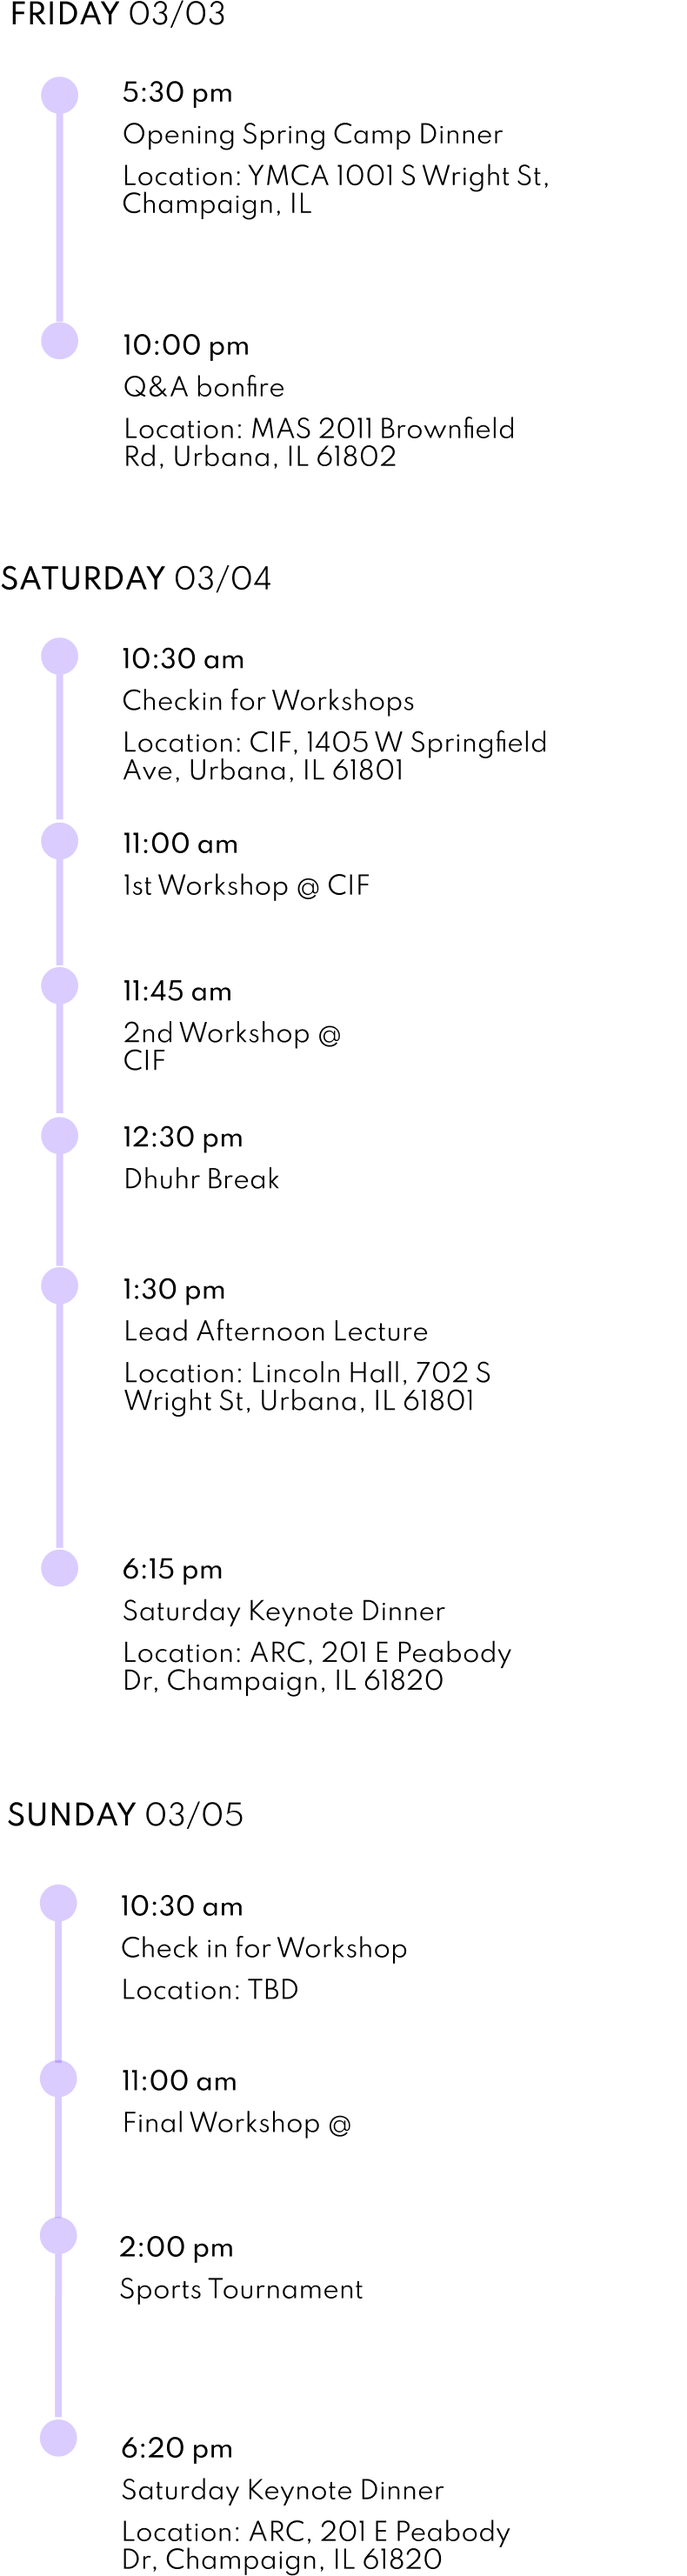
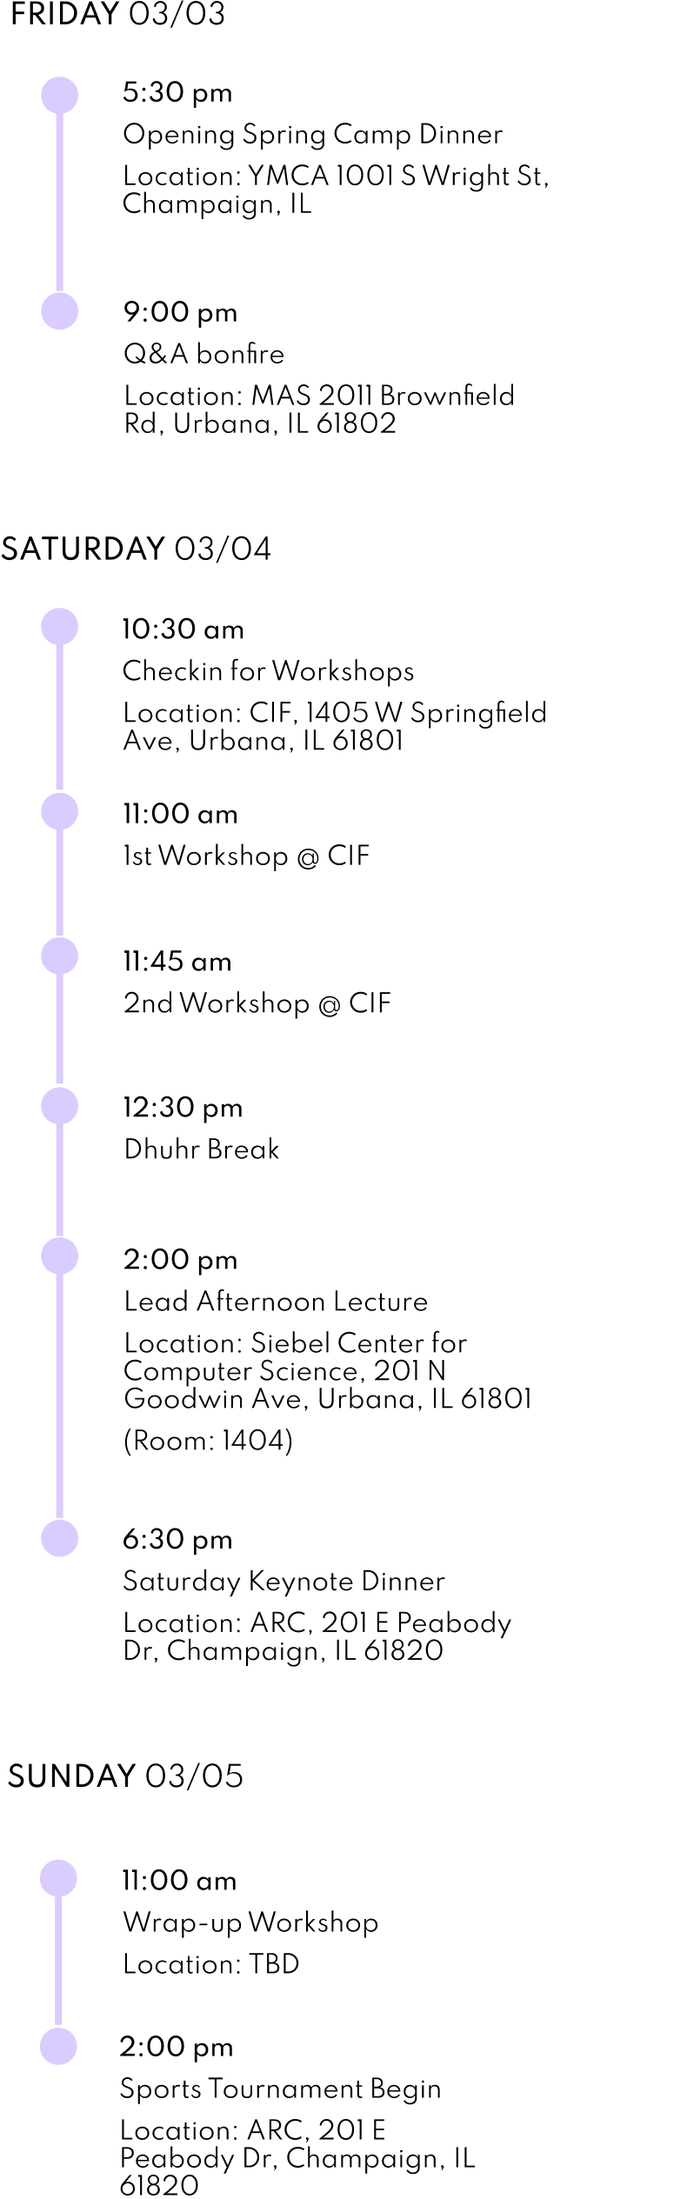
Fixed Spring Camp Itinerary

diff --git a/html/spring-camp.html b/html/spring-camp.html
@@ -123,16 +123,16 @@
           <h6 class="time-date">03/03</h6>
         </div>
         <div class="timeline flex">
-          <div class="timeline-item">
+          <div class="timeline-item long">
             <div class="timeline-content">
               <h3 class="timeline-time">5:30 pm</h3>
               <h3 class="timeline-event">Opening Spring Camp Dinner</h3>
-              <h3 class="timeline-location">Location: YMCA 1001 S Wright St, Champaign, IL</h3>
+              <h3 class="timeline-location">Location: YMCA 1001 S Wright St, Champaign, IL 61820</h3>
             </div>
           </div>
-          <div class="timeline-item">
+          <div class="timeline-item long">
             <div class="timeline-content">
-              <h3 class="timeline-time">10:00 pm</h3>
+              <h3 class="timeline-time">9:00 pm</h3>
               <h3 class="timeline-event">Q&A Bonfire</h3>
               <h3 class="timeline-location">Location: MAS 2011 Brownfield Rd. Urbana, IL 61802</h3>
             </div>
@@ -175,14 +175,14 @@
           </div>
           <div class="timeline-item long">
             <div class="timeline-content">
-              <h3 class="timeline-time">1:30 pm</h3>
+              <h3 class="timeline-time">2:00 pm</h3>
               <h3 class="timeline-event">Lead Afternoon Lecture</h3>
-              <h3 class="timeline-location">Location: Lincoln Hall, 702 S Wright St. Urbana, IL 61801</h3>
+              <h3 class="timeline-location">Location: Siebel Center for Computer Science, 201 N Goodwin Ave. Urbana, IL 61801 (Room: 1404)</h3>
             </div>
           </div>
           <div class="timeline-item short">
             <div class="timeline-content">
-              <h3 class="timeline-time">6:15 pm</h3>
+              <h3 class="timeline-time">6:30 pm</h3>
               <h3 class="timeline-event">Saturday Keynote Dinner</h3>
               <h3 class="timeline-location">Location: ARC, 201 E Peabody Dr, Champaign, IL 61820</h3>
             </div>
@@ -196,17 +196,10 @@
           <h6 class="time-date">03/05</h6>
         </div>
         <div class="timeline flex">
-          <div class="timeline-item short">
-            <div class="timeline-content">
-              <h3 class="timeline-time">10:30 am</h3>
-              <h3 class="timeline-event">Check-in for Workshops</h3>
-              <h3 class="timeline-location">Location: TBD</h3>
-            </div>
-          </div>
           <div class="timeline-item long">
             <div class="timeline-content">
               <h3 class="timeline-time">11:00 am</h3>
-              <h3 class="timeline-event">Final Workshop</h3>
+              <h3 class="timeline-event">Wrap-up Workshop</h3>
               <h3 class="timeline-location">Location: TBD</h3>
             </div>
           </div>
@@ -214,13 +207,6 @@
             <div class="timeline-content">
               <h3 class="timeline-time">2:00 pm</h3>
               <h3 class="timeline-event">Sports Tournaments Begin</h3>
-              <h3 class="timeline-location">Location: TBD</h3>
-            </div>
-          </div>
-          <div class="timeline-item short">
-            <div class="timeline-content">
-              <h3 class="timeline-time">6:20 pm</h3>
-              <h3 class="timeline-event">Sunday Keynote Dinner</h3>
               <h3 class="timeline-location">Location: ARC, 201 E Peabody Dr, Champaign, IL 61820</h3>
             </div>
           </div>
